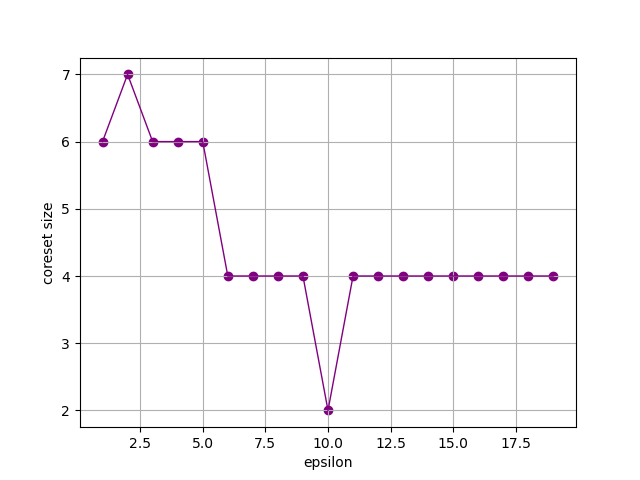
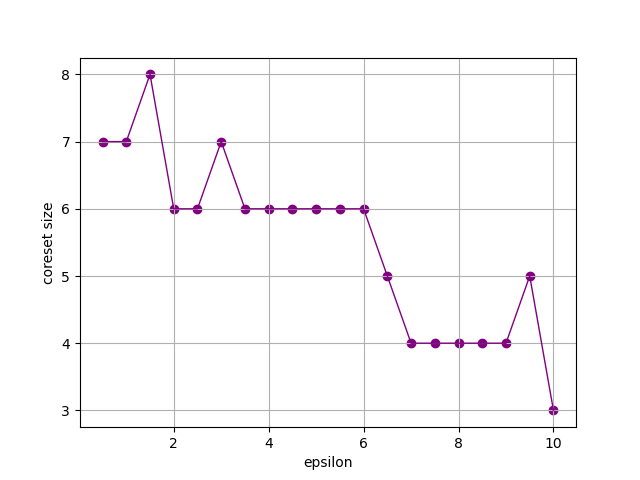
generated online plots

diff --git a/online_test.py b/online_test.py
@@ -1,4 +1,5 @@
 from coreset_meb import get_coreset_meb
+from utils import diameter
 import numpy as np
 import math
 import matplotlib.pyplot as plt
@@ -15,7 +16,7 @@ args = parser.parse_args()
 
 num_in_P = args.num_samples
 buffer_size = args.buffer_size
-epsilon_list = [1 * i for i in range(1, 20)]
+epsilon_list = [i for i in range(1, 20)]
 coreset_size_list = []
 error_list = []
 
@@ -59,8 +60,8 @@ for eps in epsilon_list:
     plt.ylabel('Y')
     plt.title(f'original set size: {num_in_P} || epsilon: {eps} || theta net size: {math.ceil(2 * math.pi / math.sqrt(eps))} || coreset size: {len(final_coreset_meb)}')
     plt.grid(True)
-    plt.savefig(f'results_online/epsilon_{eps}')
-    plt.show()
+    plt.savefig(f'results_online/epsilon_{eps}.png')
+    plt.clf()
 
 plt.scatter(epsilon_list, error_list, color='green', marker='o', label='squared difference radius')
 plt.plot(epsilon_list, error_list, color='green', linestyle='-', linewidth=1)

diff --git a/offline_test.py b/offline_test.py
@@ -10,7 +10,7 @@ parser.add_argument('--num_samples', type=int, default=500, help='Number of samp
 args = parser.parse_args()
 
 num_in_P = args.num_samples
-epsilon_list = [1 * i for i in range(1, 20)]
+epsilon_list = [0.5 * i for i in range(1, 21)]
 coreset_size_list = []
 error_list = []
 
@@ -31,8 +31,8 @@ for eps in epsilon_list:
     plt.ylabel('Y')
     plt.title(f'original set size: {num_in_P} || epsilon: {eps} || theta net size: {math.ceil(2 * math.pi / math.sqrt(eps))} || coreset size: {len(coreset_meb)}')
     plt.grid(True)
-    plt.savefig(f'results_offline/epsilon_{eps}')
-    plt.show()
+    plt.savefig(f'results_offline/epsilon_{eps}.png')
+    plt.clf()
 
 plt.scatter(epsilon_list, error_list, color='green', marker='o', label='squared difference radius')
 plt.plot(epsilon_list, error_list, color='green', linestyle='-', linewidth=1)
